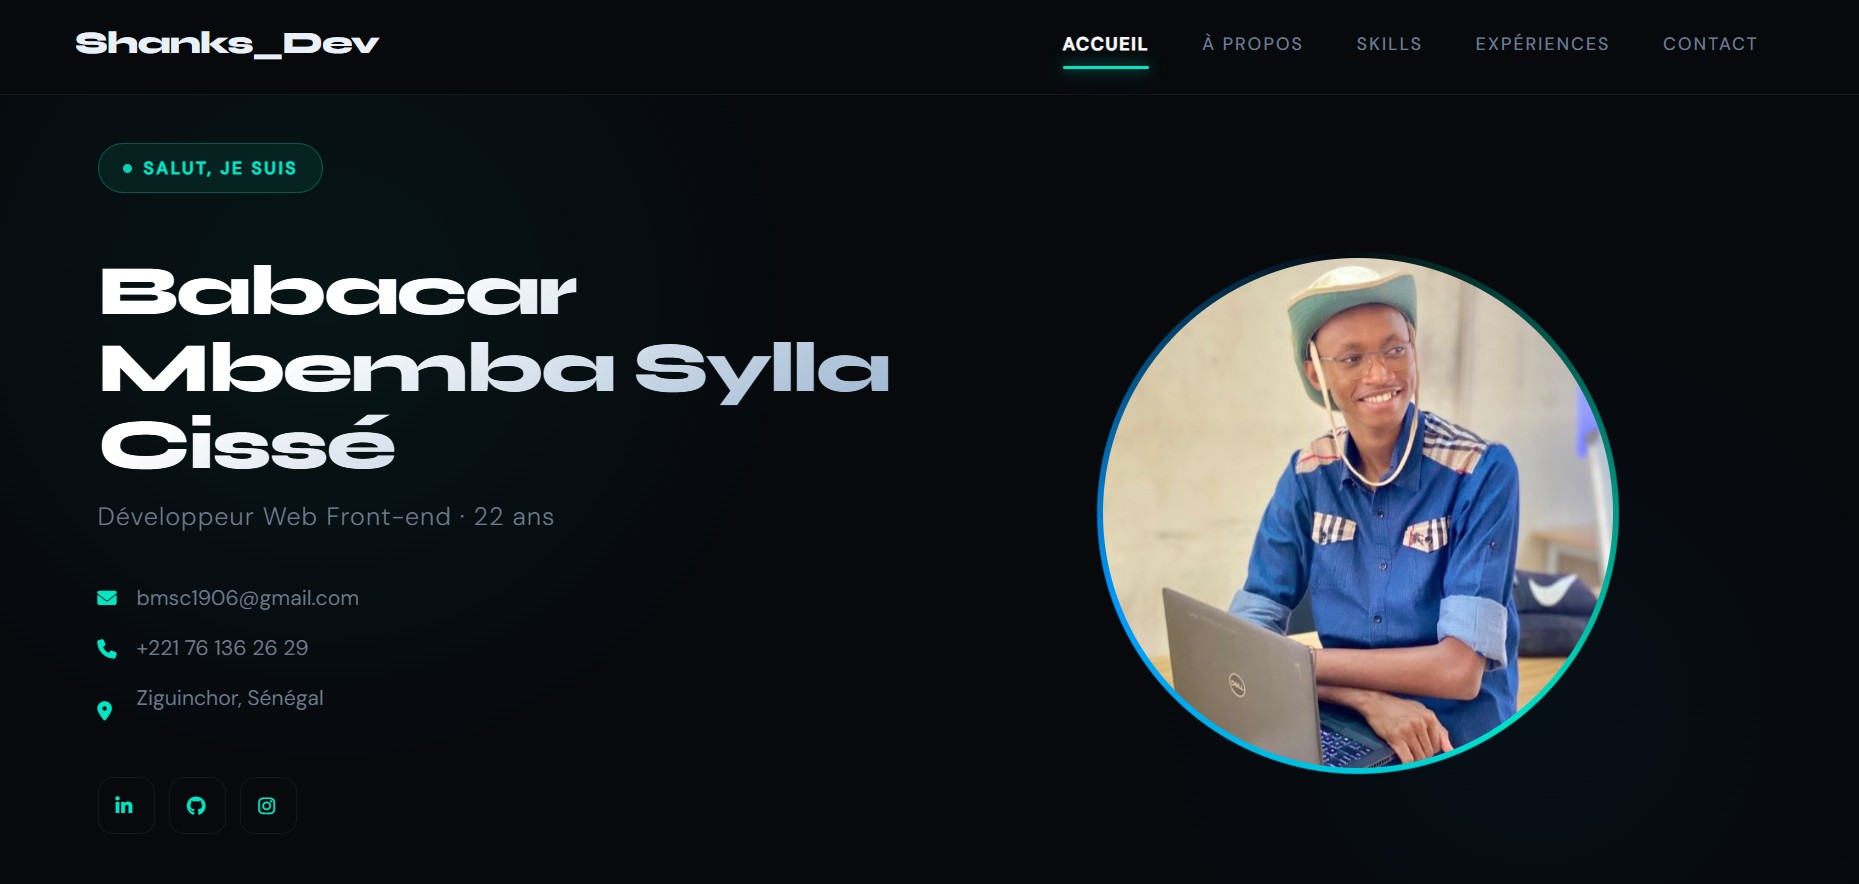
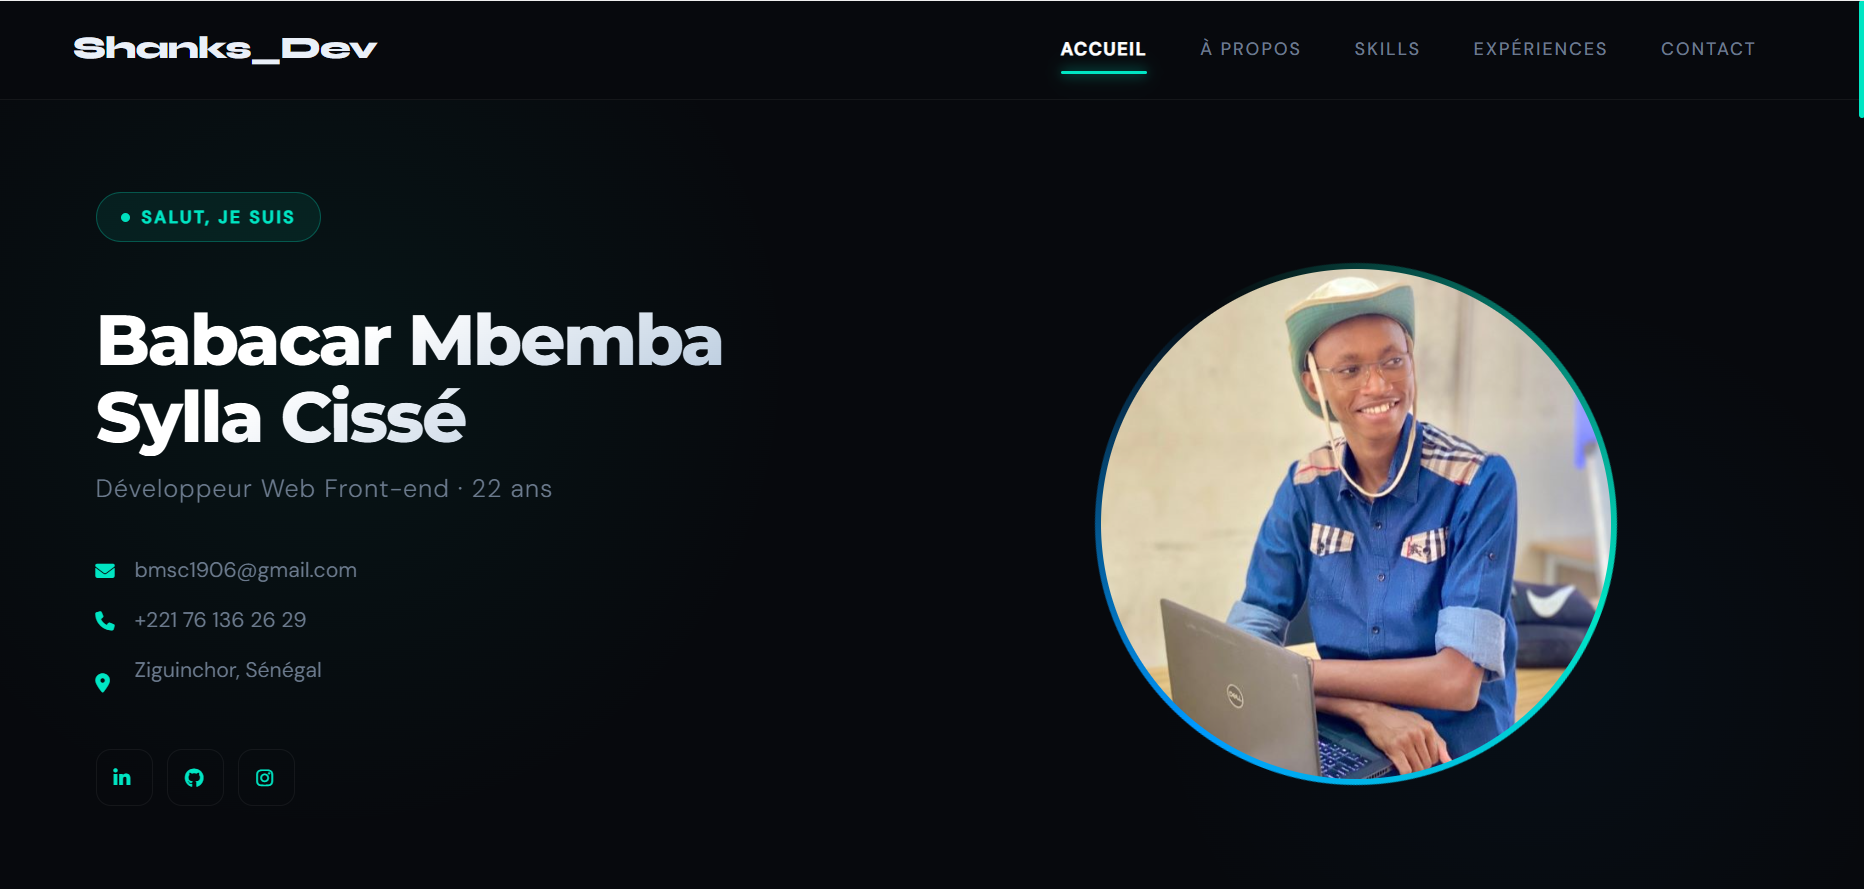
commit 10

diff --git a/assets/css/redesign.css b/assets/css/redesign.css
@@ -3,7 +3,7 @@
    Aesthetic : Tech-noir · Syne + DM Sans · Cyan electric accent
    ===================================================================== */
 
-@import url('https://fonts.googleapis.com/css2?family=Syne:wght@400;600;700;800&family=DM+Sans:ital,opsz,wght@0,9..40,300;0,9..40,400;0,9..40,500;1,9..40,300&display=swap');
+@import url('https://fonts.googleapis.com/css2?family=Montserrat:wght@600;700;800;900&family=Syne:wght@400;600;700;800&family=DM+Sans:ital,opsz,wght@0,9..40,300;0,9..40,400;0,9..40,500;1,9..40,300&display=swap');
 
 /* ── Variables ──────────────────────────────────────────────────────── */
 :root {
@@ -43,7 +43,7 @@ body {
 section, footer, header, .navbar { position: relative; z-index: 1; }
 
 h1,h2,h3,h4,h5 {
-  font-family: 'Syne', sans-serif;
+  font-family: 'Montserrat', sans-serif;
   font-weight: 700;
   line-height: 1.15;
   color: var(--text);
@@ -303,7 +303,7 @@ img { max-width: 100%; display: block; }
 /* =====================================================================
    SHARED
    ===================================================================== */
-.section-separator { padding: 90px 0; }
+.section-separator { padding: 10px 0; }
 
 .section-title h3 {
   font-size: clamp(1.7rem, 3vw, 2.3rem);
@@ -407,7 +407,7 @@ img { max-width: 100%; display: block; }
   display: inline-flex;
   align-items: center;
   gap: .55rem;
-  font-family: 'Syne', sans-serif;
+  font-family: 'Montserrat', sans-serif;
   font-size: .68rem;
   font-weight: 700;
   letter-spacing: .14em;
@@ -476,7 +476,7 @@ img { max-width: 100%; display: block; }
   display: flex; flex-direction: column; gap: .18rem;
 }
 .sk2-name {
-  font-family: 'Syne', sans-serif;
+  font-family: 'Montserrat', sans-serif;
   font-size: .82rem; font-weight: 700;
   color: var(--text);
   white-space: nowrap; overflow: hidden; text-overflow: ellipsis;
@@ -487,7 +487,7 @@ img { max-width: 100%; display: block; }
   letter-spacing: .03em;
 }
 .sk2-pct {
-  font-family: 'Syne', sans-serif;
+  font-family: 'Montserrat', sans-serif;
   font-size: .78rem; font-weight: 800;
   color: var(--accent);
   flex-shrink: 0;
@@ -551,12 +551,12 @@ img { max-width: 100%; display: block; }
   gap: .5rem;
 }
 .sk2-soft-name {
-  font-family: 'Syne', sans-serif;
+  font-family: 'Montserrat', sans-serif;
   font-size: .8rem; font-weight: 700;
   color: var(--text);
 }
 .sk2-soft-pct {
-  font-family: 'Syne', sans-serif;
+  font-family: 'Montserrat', sans-serif;
   font-size: .78rem; font-weight: 800;
   color: var(--accent);
   flex-shrink: 0;
@@ -580,7 +580,7 @@ img { max-width: 100%; display: block; }
 }
 .sk2-stat:hover { border-color: var(--border-acc); transform: translateY(-3px); }
 .sk2-stat-num {
-  font-family: 'Syne', sans-serif;
+  font-family: 'Montserrat', sans-serif;
   font-size: 1.65rem; font-weight: 800;
   background: linear-gradient(135deg, var(--accent), var(--accent-2));
   -webkit-background-clip: text; -webkit-text-fill-color: transparent;
@@ -772,7 +772,7 @@ img { max-width: 100%; display: block; }
 /* =====================================================================
    FOOTER / CONTACT
    ===================================================================== */
-.mh-footer { background: var(--bg); padding-bottom: .5rem; }
+.mh-footer { background: var(--bg); padding-bottom: 20px; }
 .map-image { background: transparent !important; }
 
 .mh-address-footer-item {
@@ -786,6 +786,7 @@ img { max-width: 100%; display: block; }
   transition: transform var(--t) var(--ease), border-color var(--t) var(--ease);
 }
 /* Make Bootstrap col stretch to full height */
+.mh-footer-address { margin-top: 1.75rem; }
 .mh-footer-address .row { align-items: stretch; row-gap: 1rem; }
 .mh-footer-address .row > [class*="col"] { display: flex; flex-direction: column; margin-bottom: 0 !important; }
 .mh-address-footer-item:hover { transform: translateY(-3px); border-color: var(--border-acc); }
@@ -836,9 +837,9 @@ textarea.form-control { resize: vertical; min-height: 130px; }
 }
 
 .mh-copyright {
-  padding-top: 1.25rem;
-  padding-bottom: .75rem;
-  margin-top: 1.5rem;
+  padding-top: .85rem;
+  padding-bottom: .4rem;
+  margin-top: .75rem;
   border-top: 1px solid var(--border);
 }
 /* Copyright + icônes sur la même ligne, bien alignés */
@@ -983,7 +984,7 @@ textarea.form-control { resize: vertical; min-height: 130px; }
   .mh-header-info h2 { font-size: clamp(2rem, 5vw, 3rem); }
 
   /* Section spacing */
-  .section-separator { padding: 70px 0; }
+  .section-separator { padding: 10px 0; }
 
   /* About — stack vertically */
   .mh-about .col-sm-12.col-md-6 { width: 100%; }
@@ -1059,7 +1060,7 @@ textarea.form-control { resize: vertical; min-height: 130px; }
 /* ── Mobile paysage + tablette petite (max 768px) ──────────────── */
 @media (max-width: 767px) {
   .mh-home { padding: 68px 0 40px; }
-  .section-separator { padding: 50px 0; }
+  .section-separator { padding: 10px 0; }
 
   /* Hero: photo au-dessus */
   .xs-column-reverse { flex-direction: column-reverse; }
@@ -1110,7 +1111,7 @@ textarea.form-control { resize: vertical; min-height: 130px; }
 /* ── Small phones ───────────────────────────────────────────────── */
 @media (max-width: 575px) {
   .mh-home { padding: 64px 0 35px; }
-  .section-separator { padding: 42px 0; }
+  .section-separator { padding: 10px 0; }
 
   .mh-header-info h2 { font-size: 1.85rem; letter-spacing: -.03em; }
   .mh-header-info h4 { font-size: .9rem; }

diff --git a/index.html b/index.html
@@ -11,7 +11,7 @@
   <meta name="viewport" content="width=device-width, initial-scale=1, shrink-to-fit=no">
 
   <!-- ── SEO essentiels ────────────────────────────────────────────── -->
-  <title>Shanks_Dev — Babacar Mbemba Sylla Cissé | Développeur Web Front-end</title>
+  <title>Shanks_Dev — Babacar Mbemba Sylla Cissé | Développeur Fullstack</title>
   <meta name="description"
         content="Portfolio de Babacar Mbemba Sylla Cissé, développeur web front-end freelance basé au Sénégal. Spécialisé en HTML, CSS, JavaScript, React, Node.js, WordPress et Webflow. Disponible pour des projets web.">
   <meta name="keywords"
@@ -25,7 +25,7 @@
   <!-- ── Open Graph (Facebook / LinkedIn / WhatsApp) ───────────────── -->
   <meta property="og:type"        content="website">
   <meta property="og:url"         content="https://shanks-dev.vercel.app/">
-  <meta property="og:title"       content="Shanks_Dev — Développeur Web Front-end · Sénégal">
+  <meta property="og:title"       content="Shanks_Dev — Développeur Fullstack · Sénégal">
   <meta property="og:description" content="Portfolio de Babacar Mbemba Sylla Cissé. Développeur web passionné par les interfaces modernes et performantes. Disponible en freelance.">
   <meta property="og:image"       content="https://shanks-dev.vercel.app/assets/images/og-preview.jpg">
   <meta property="og:image:width"  content="1200">
@@ -37,7 +37,7 @@
   <meta name="twitter:card"        content="summary_large_image">
   <meta name="twitter:site"        content="@shanks_dev">
   <meta name="twitter:creator"     content="@shanks_dev">
-  <meta name="twitter:title"       content="Shanks_Dev — Développeur Web Front-end">
+  <meta name="twitter:title"       content="Shanks_Dev — Développeur Fullstack">
   <meta name="twitter:description" content="Portfolio de Babacar Mbemba Sylla Cissé. Développeur web passionné par les interfaces modernes et performantes.">
   <meta name="twitter:image"       content="https://shanks-dev.vercel.app/assets/images/og-preview.jpg">
 
@@ -50,8 +50,8 @@
     "alternateName": "Shanks_Dev",
     "url": "https://shanks-dev.vercel.app",
     "image": "https://shanks-dev.vercel.app/assets/images/Shanks.jpg",
-    "jobTitle": "Développeur Web Front-end",
-    "description": "Développeur Web Front-end freelance spécialisé en HTML, CSS, JavaScript, React, Node.js, WordPress et Webflow.",
+    "jobTitle": "Développeur Fullstack",
+    "description": "Développeur Fullstack freelance spécialisé en HTML, CSS, JavaScript, React, Node.js, WordPress et Webflow.",
     "email": "mailto:bmsc1906@gmail.com",
     "telephone": "+221761362629",
     "address": {
@@ -189,7 +189,7 @@
               </h2>
 
               <h4 class="wow fadeInUp" data-wow-duration="0.8s" data-wow-delay="0.3s">
-                Développeur Web Front-end · 22 ans
+                Développeur Fullstack
               </h4>
 
               <ul>
@@ -928,13 +928,4 @@
 
         // Paramètres envoyés au template EmailJS
         var params = {
-          from_name   : prenom + ' ' + nom,
-          from_email  : email,
-          message     : message,
-          to_email    : 'bmsc1906@gmail.com'
-        };
-
-        // SERVICE ID + TEMPLATE ID : à remplacer (emailjs.com > Email Services / Templates)
-        emailjs.send('TON_SERVICE_ID', 'TON_TEMPLATE_ID', params)
-          .then(function () {
-            showMsg('✅ Message envoyé ! Je vous 
+          from_name   : prenom +
